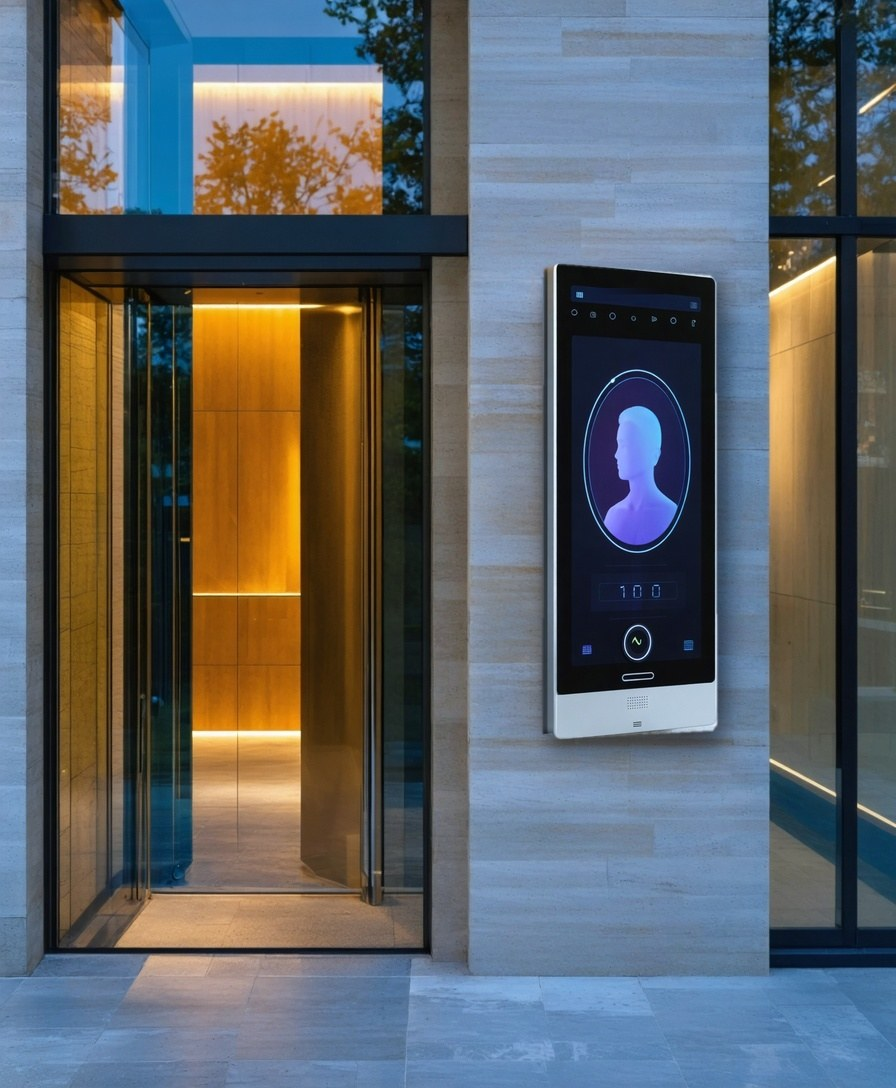
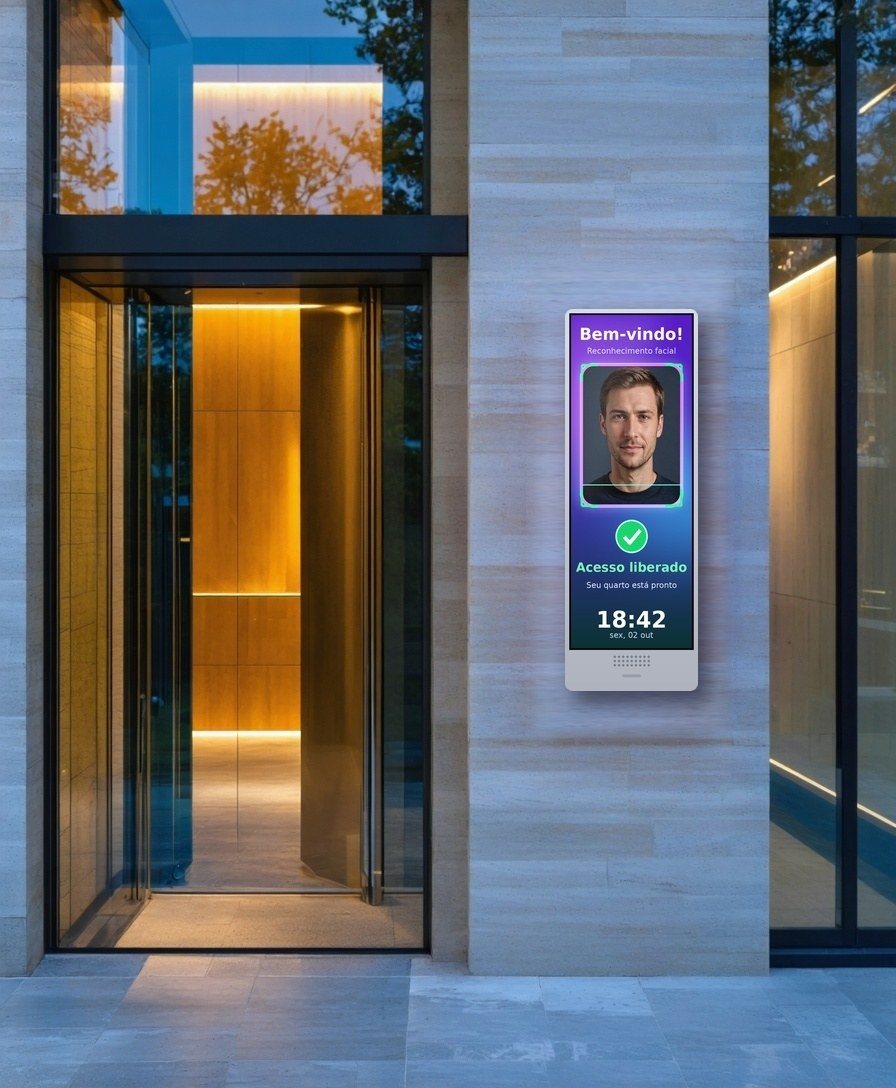
feat(site): aparelho facial 20% menor, de frente, com tela chamativa

Changed region(s): [[0.5625, 0.2188, 0.8438, 0.7188]]

diff --git a/index.html b/index.html
@@ -453,7 +453,7 @@ a:focus-visible,summary:focus-visible{outline:3px solid var(--marca);outline-off
       <a class="btn" href="https://wa.me/5562985673142?text=Quero%20o%20reconhecimento%20facial%20na%20entrada%20do%20meu%20pr%C3%A9dio">Quero isso no meu condomínio</a>
     </div>
     <figure class="rosto-foto rev">
-      <img class="foto" src="/assets/rosto-destaque-560.jpg" srcset="/assets/rosto-destaque-560.jpg 560w, /assets/rosto-destaque-896.jpg 896w" sizes="(max-width:860px) 100vw, 480px" width="896" height="1088" alt="Terminal de reconhecimento facial na entrada do prédio, ao lado da porta de vidro do hall: tela grande com o contorno do rosto e câmeras no topo" loading="lazy" decoding="async" />
+      <img class="foto" src="/assets/rosto-destaque-560.jpg" srcset="/assets/rosto-destaque-560.jpg 560w, /assets/rosto-destaque-896.jpg 896w" sizes="(max-width:860px) 100vw, 480px" width="896" height="1088" alt="Terminal de reconhecimento facial na parede da entrada do prédio, ao lado da porta de vidro: a tela mostra o rosto do hóspede e a mensagem Acesso liberado" loading="lazy" decoding="async" />
       <figcaption>Imagem ilustrativa do reconhecimento facial na entrada do prédio.</figcaption>
     </figure>
   </div>

diff --git a/tools/compor_entrada.py b/tools/compor_entrada.py
@@ -1,0 +1,109 @@
+"""Compõe a foto da seção 'Entrada do prédio sem recepção'.
+
+Cena `entrada_t2` (portaria de prédio, sem aparelho utilizável) + aparelho `terminal_u4` (desenho de terminal
+facial atual) + TELA desenhada aqui (vívida, com o retrato `tela_retrato_*`). Tudo local, sem custo de geração.
+Parâmetros no topo. Rodar: python3 tools/compor_entrada.py  -> fotos/candidatos/entrada_final2.jpg
+"""
+from PIL import Image, ImageDraw, ImageFilter, ImageFont, ImageChops
+
+ESCALA = 0.80                      # pedido do Rodrigo: aparelho 20% menor que a 1ª composição (altura 477 px)
+ALTURA_ANTERIOR = 477
+CENTRO = (631, 500)               # onde o aparelho fica na cena 896x1088
+RETRATO = "fotos/candidatos/tela_retrato_2.jpg"
+FONTE = "/usr/share/fonts/truetype/dejavu/DejaVuSans-Bold.ttf"
+FONTE_L = "/usr/share/fonts/truetype/dejavu/DejaVuSans.ttf"
+
+def coefs(dst, src):
+    """Coeficientes de Image.PERSPECTIVE (mapeia dst -> src) por eliminação de Gauss, sem numpy."""
+    A = []
+    for (x, y), (u, v) in zip(dst, src):
+        A.append([x, y, 1, 0, 0, 0, -u * x, -u * y, u]); A.append([0, 0, 0, x, y, 1, -v * x, -v * y, v])
+    n = 8
+    for i in range(n):
+        p = max(range(i, n), key=lambda r: abs(A[r][i])); A[i], A[p] = A[p], A[i]
+        A[i] = [v / A[i][i] for v in A[i]]
+        for r in range(n):
+            if r != i: A[r] = [vr - A[r][i] * vi for vr, vi in zip(A[r], A[i])]
+    return [A[i][n] for i in range(n)]
+
+def tela_ui(W=524, H=1400):
+    """Interface vívida: gradiente violeta→azul, retrato com moldura neon, check verde e texto."""
+    fundo = Image.new("RGB", (W, H))
+    px = fundo.load()
+    for y in range(H):
+        t = y / H
+        c = (int(88 - 60 * t), int(28 + 40 * t), int(200 - 40 * t)) if t < .55 else (int(60 - 50 * (t - .55) / .45), int(50 + 0 * t), int(170 - 120 * (t - .55) / .45))
+        for x in range(W): px[x, y] = c
+    glow = Image.new("RGB", (W, H), (0, 0, 0)); g = ImageDraw.Draw(glow)
+    g.ellipse((-120, 120, 360, 640), fill=(190, 60, 255)); g.ellipse((200, 520, 700, 1000), fill=(0, 200, 255))
+    fundo = ImageChops.screen(fundo, glow.filter(ImageFilter.GaussianBlur(120)).point(lambda v: int(v * .55)))
+    d = ImageDraw.Draw(fundo)
+    f1, f2, f3 = ImageFont.truetype(FONTE, 70), ImageFont.truetype(FONTE, 54), ImageFont.truetype(FONTE_L, 34)
+    d.text((W // 2, 80), "Bem-vindo!", font=f1, fill="white", anchor="mm")
+    d.text((W // 2, 150), "Reconhecimento facial", font=f3, fill=(210, 225, 255), anchor="mm")
+    # retrato em moldura arredondada com anel neon (ciano→magenta)
+    r = Image.open(RETRATO).convert("RGB"); bx, by, bw, bh = 52, 215, 420, 580
+    r = r.resize((bw, int(r.height * bw / r.width)), Image.LANCZOS).crop((0, 20, bw, 20 + bh))
+    m = Image.new("L", (bw, bh), 0); ImageDraw.Draw(m).rounded_rectangle((0, 0, bw - 1, bh - 1), 44, fill=255)
+    anel = Image.new("RGB", (W, H), (0, 0, 0)); a = ImageDraw.Draw(anel)
+    for i, c in enumerate(((0, 230, 255), (160, 80, 255), (255, 70, 200))):
+        a.rounded_rectangle((bx - 14 + i * 3, by - 14 + i * 3, bx + bw + 14 - i * 3, by + bh + 14 - i * 3), 58, outline=c, width=7)
+    fundo = ImageChops.screen(fundo, anel.filter(ImageFilter.GaussianBlur(18)))
+    fundo = ImageChops.screen(fundo, anel)
+    fundo.paste(r, (bx, by), m)
+    d = ImageDraw.Draw(fundo)
+    for (x, y, dx, dy) in ((bx - 6, by - 6, 1, 1), (bx + bw + 6, by - 6, -1, 1), (bx - 6, by + bh + 6, 1, -1), (bx + bw + 6, by + bh + 6, -1, -1)):
+        d.line((x, y, x + 70 * dx, y), fill=(60, 255, 150), width=10); d.line((x, y, x, y + 70 * dy), fill=(60, 255, 150), width=10)
+    sy = by + int(bh * .86); d.line((bx - 4, sy, bx + bw + 4, sy), fill=(110, 255, 225), width=4)   # linha de varredura (abaixo do rosto)
+    # selo verde de acesso liberado
+    cx, cy = W // 2, 930
+    d.ellipse((cx - 70, cy - 70, cx + 70, cy + 70), fill=(24, 214, 110), outline=(190, 255, 220), width=7)
+    d.line((cx - 32, cy + 2, cx - 8, cy + 28, cx + 38, cy - 26), fill="white", width=16, joint="curve")
+    d.text((W // 2, 1060), "Acesso liberado", font=f2, fill=(120, 255, 180), anchor="mm")
+    d.text((W // 2, 1135), "Seu quarto está pronto", font=f3, fill=(225, 235, 255), anchor="mm")
+    d.text((W // 2, 1280), "18:42", font=ImageFont.truetype(FONTE, 96), fill="white", anchor="mm")
+    d.text((W // 2, 1345), "sex, 02 out", font=f3, fill=(200, 215, 255), anchor="mm")
+    return fundo
+
+# --- aparelho de FRENTE: a foto original está em ângulo 3/4 e a cena é frontal. Alinha o vidro a um retângulo,
+# reaproveita a base prateada (alto-falante) e refaz uma moldura simétrica.
+term = Image.open("fotos/candidatos/terminal_u4.jpg").convert("RGB")
+VIDRO = [(296, 236), (558, 248), (558, 940), (296, 948)]          # vidro preto interno (TL, TR, BR, BL)
+R = (300, 240, 556, 946)                                           # onde o vidro fica depois de alinhar
+Rq = [(R[0], R[1]), (R[2], R[1]), (R[2], R[3]), (R[0], R[3])]
+frontal = term.transform(term.size, Image.PERSPECTIVE, coefs(Rq, VIDRO), Image.BICUBIC)
+ui = tela_ui(); W, H = ui.size
+tela = ui.resize((R[2] - R[0], R[3] - R[1]), Image.LANCZOS)
+M = 13; CH = 78                                                    # moldura e altura da base
+rw, rh = R[2] - R[0], R[3] - R[1]
+D = Image.new("RGB", (rw + 2 * M, rh + CH + 2 * M), (0, 0, 0)); dd = ImageDraw.Draw(D)
+for y in range(D.height):                                           # prata com gradiente vertical
+    t = y / D.height; dd.line((0, y, D.width, y), fill=(int(214 - 40 * t), int(219 - 40 * t), int(228 - 38 * t)))
+# base prateada desenhada (a do original vinha inclinada): grade do alto-falante + sensor
+gx, gy = D.width // 2, M + rh + 30
+for r_ in range(3):
+    for c_ in range(9): dd.ellipse((gx - 36 + c_ * 9 - 2, gy - 12 + r_ * 9 - 2, gx - 36 + c_ * 9 + 2, gy - 12 + r_ * 9 + 2), fill=(120, 126, 138))
+dd.rounded_rectangle((gx - 20, gy + 26, gx + 20, gy + 31), 3, fill=(150, 156, 168))
+dd.rectangle((M - 4, M - 4, M + rw + 3, M + rh + 3), fill=(8, 8, 12))   # vidro preto com borda fina
+D.paste(tela, (M, M))
+refl = Image.new("L", D.size, 0); ImageDraw.Draw(refl).polygon([(M, M), (M + int(rw * .75), M), (M + int(rw * .25), M + int(rh * .55)), (M, M + int(rh * .55))], fill=34)
+D = Image.composite(Image.new("RGB", D.size, "white"), D, refl.filter(ImageFilter.GaussianBlur(22)))
+rec = Image.new("L", D.size, 0); ImageDraw.Draw(rec).rounded_rectangle((0, 0, D.width - 1, D.height - 1), 16, fill=255)
+term_c, rec_c = D, rec.filter(ImageFilter.GaussianBlur(0.7))
+h = round(ALTURA_ANTERIOR * ESCALA); w = round(term_c.width * h / term_c.height)
+term_c, rec_c = term_c.resize((w, h), Image.LANCZOS), rec_c.resize((w, h), Image.LANCZOS)
+
+# --- cena: apaga o aparelho antigo estendendo uma faixa limpa da pedra (listras horizontais)
+cena = Image.open("fotos/candidatos/entrada_t2.jpg").convert("RGB")
+x0, x1 = 526, 734; faixa = cena.crop((478, 258, 524, 742)).resize((x1 - x0, 484), Image.LANCZOS)
+borda = Image.new("L", faixa.size, 255); ImageDraw.Draw(borda).rectangle((0, 0, faixa.width - 1, faixa.height - 1), outline=0, width=7)
+cena.paste(faixa, (x0, 258), borda.filter(ImageFilter.GaussianBlur(6)))
+# --- brilho da tela na parede + sombra + aparelho
+px0, py0 = CENTRO[0] - w // 2, CENTRO[1] - h // 2
+halo = Image.new("RGB", cena.size, (0, 0, 0)); ImageDraw.Draw(halo).rounded_rectangle((px0 - 30, py0 - 20, px0 + w + 30, py0 + h + 20), 40, fill=(120, 70, 255))
+cena = ImageChops.screen(cena, halo.filter(ImageFilter.GaussianBlur(70)).point(lambda v: int(v * .36)))
+sombra = Image.new("L", cena.size, 0); ImageDraw.Draw(sombra).polygon([(px + 10, py + 12) for px, py in [(px0, py0), (px0 + w, py0), (px0 + w, py0 + h), (px0, py0 + h)]], fill=150)
+cena.paste(Image.new("RGB", cena.size, (20, 18, 30)), (0, 0), sombra.filter(ImageFilter.GaussianBlur(10)))
+cena.paste(term_c, (px0, py0), rec_c)
+cena.save("fotos/candidatos/entrada_final2.jpg", quality=95)
+print("ok", (w, h), (px0, py0))

diff --git a/fotos/JULGAMENTO.md b/fotos/JULGAMENTO.md
@@ -67,3 +67,12 @@ Custo da rodada ≈ US$ 2,3 (4 control-structure a US$ 0,07 + 8 Ultra a US$ 0,14
 - Pedir só o terminal (Ultra, prompt descritivo SEM marca) funciona: `terminal_u4` ficou parecido com a referência (3/4, silhueta no arco azul, câmeras no topo, botão em anel). Pedir a cena de entrada + terminal junto (`entrada_t1..3`) funciona sem hóspede: `entrada_t2` é a melhor cena.
 - **Escolhida (composição)**: cena `entrada_t2` (nota 7,5: entrada de prédio, porta de vidro, hall aceso) + aparelho do `terminal_u4` (nota 7: desenho da referência) colado no lugar do aparelho original, com sombra, e micro-texto da barra apagado. Notas dos descartados: `entrada_t1` 6 (coluna alta, texto), `entrada_t3` 5 (aparelho pequeno, tela com foto de rua), `terminal_u1` 4 (texto alucinado), `terminal_u2` 5,5 (módulo de digital), `terminal_u3` 5.
 - **Limitações**: sem hóspede em cena (3 tentativas de incluir pessoa+aparelho na mesma geração fizeram o modelo ignorar o aparelho); o relógio da tela mostra '100'; a foto é composição, não imagem única.
+
+### Foto do facial — 5ª rodada (02/10/2026): aparelho 20% menor e tela chamativa
+
+Pedido: 'diminua em 20% o equipamento e melhore a foto da tela — o atual é da foto original, queremos algo mais chamativo'.
+- Aparelho reduzido de 477 px para 382 px de altura (×0,80), reconstruído **de frente** (o original estava em 3/4 e a cena é frontal): vidro alinhado, moldura prata simétrica, base com grade de alto-falante desenhada.
+- **Tela redesenhada** (`tools/compor_entrada.py`, `tela_ui`): gradiente violeta→azul vívido, retrato de um homem europeu (`tela_retrato_2`, Core, US$ 0,04) em moldura neon ciano→magenta com cantos verdes, selo verde 'Acesso liberado', 'Bem-vindo!', relógio. Texto desenhado por nós, legível e em português.
+- Parede limpa estendendo uma faixa limpa da pedra (listras horizontais); 1ª tentativa deixou a borda do aparelho antigo transparecer (margem estreita) — corrigido alargando o remendo; halo violeta suavizado.
+- Custo: US$ 0,08 (2 retratos). A composição é local e reproduzível: `python3 tools/compor_entrada.py`.
+- Limitações: continua sem o hóspede em cena; o rosto na tela é um retrato gerado (não identifica ninguém).
